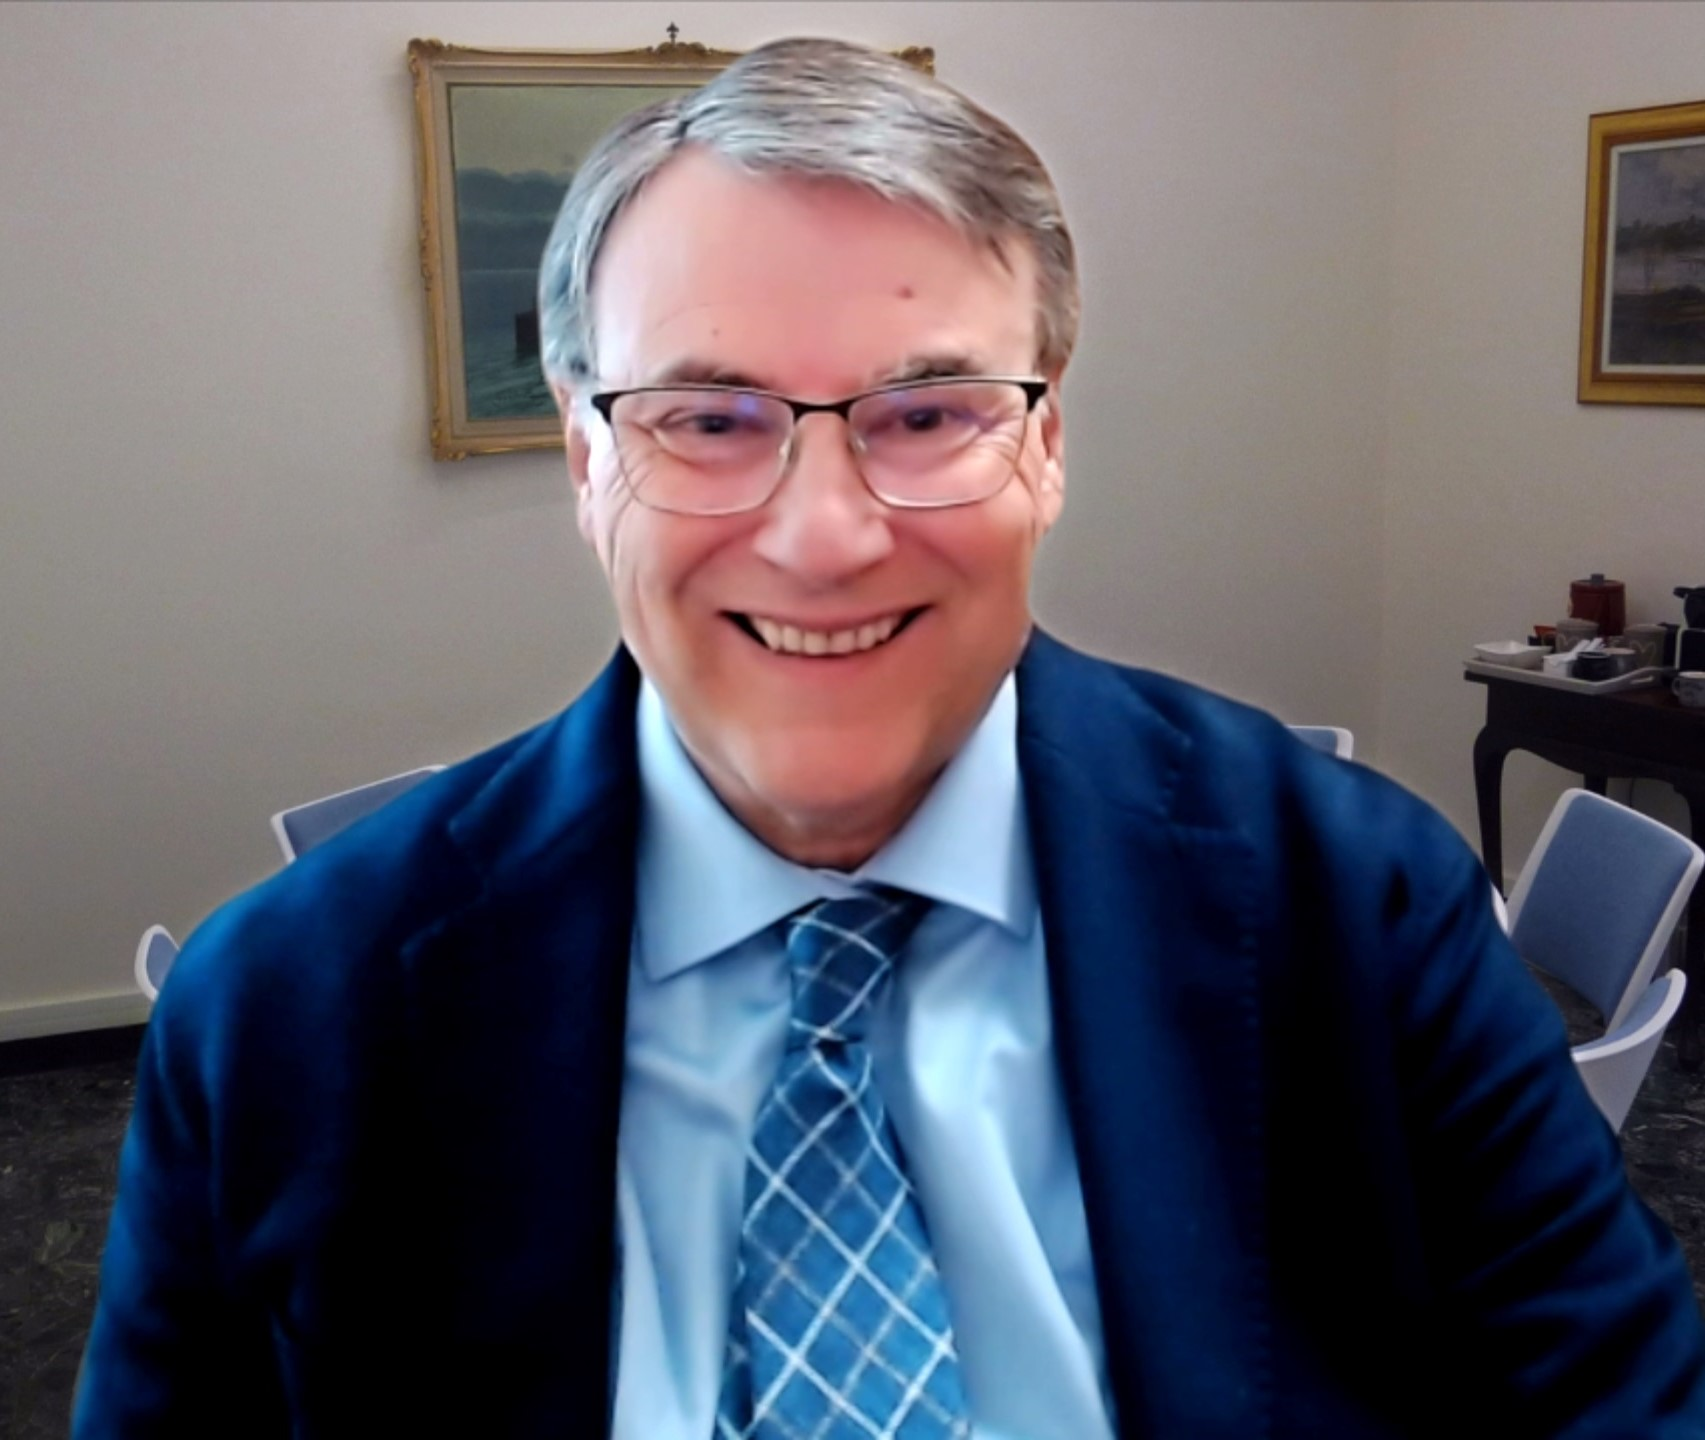
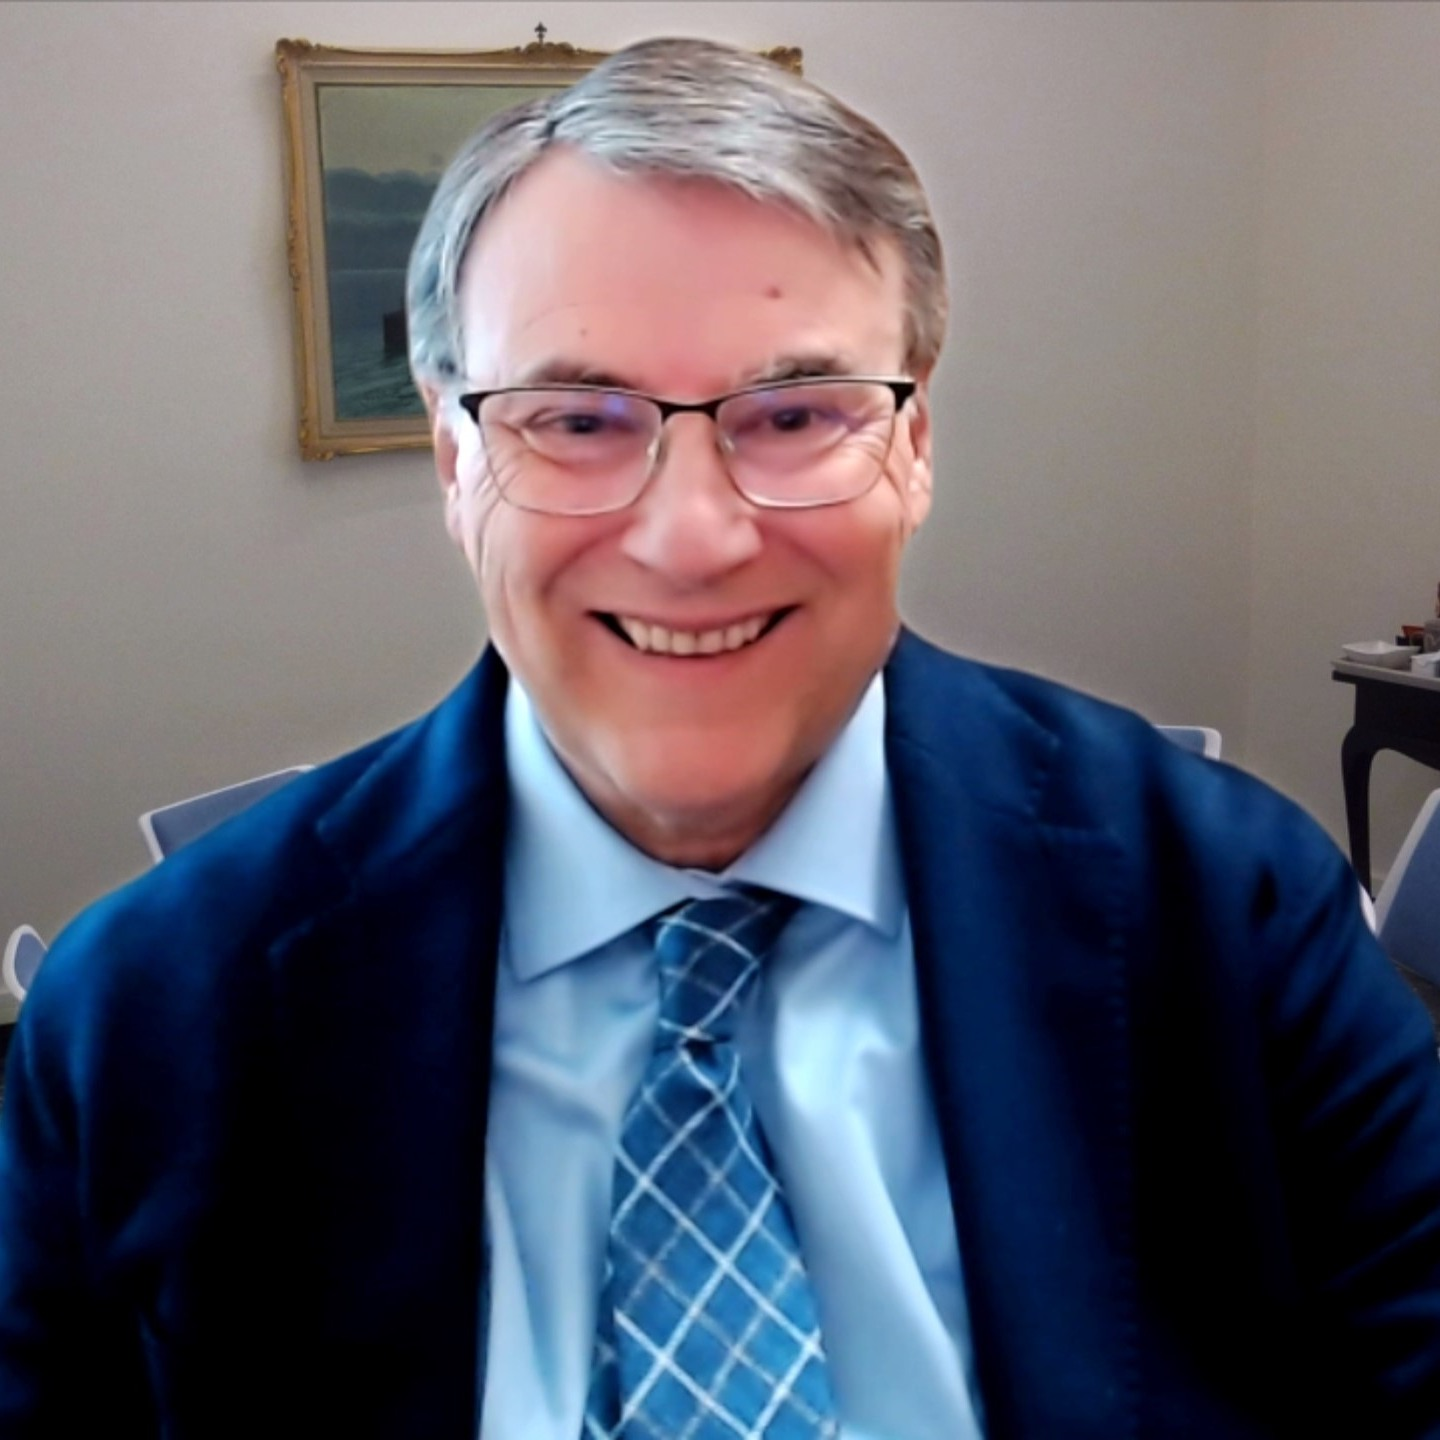
Add files via upload

diff --git a/index.html b/index.html
@@ -8,8 +8,8 @@
 <meta name="google-site-verification" content="b2392e1f3564a1be">
 
 <!-- ══ SEO PRIMARIO ══ -->
-<title>Olismo Integrato — Chakra, Enneagramma, Fiori di Bach, AT | Carlo Alberto Calcagno</title>
-<meta name="description" content="Portale olistico di Carlo Alberto Calcagno: database di chakra, cristalli, enneatipi, Fiori di Bach, FES californiani, Bush australiani, frequenze sonore, Analisi Transazionale e consulente AI per il benessere integrato.">
+<title>Olismo Integrato — Chakra, Enneagramma, AT, Cristalli, Meditazione | Carlo Alberto Calcagno</title>
+<meta name="description" content="Portale olistico di Carlo Alberto Calcagno: database di chakra, cristalli, enneatipi, Fiori di Bach, FES californiani, Bush australiani, frequenze sonore, Analisi Transazionale e consulente AI per il benessere integrato, comunicazione transazionale e meditazione olistica.">
 <meta name="keywords" content="enneagramma evolutivo, chakra, fiori di bach, analisi transazionale, VAK, mediazione familiare, pranoterapia, cristalli, frequenze solfeggio, FES californiani, Bush australiani, Carlo Alberto Calcagno, olismo integrato, counseling olistico">
 <meta name="author" content="Carlo Alberto Calcagno">
 <meta name="robots" content="index, follow, max-image-preview:large">
@@ -1774,7 +1774,7 @@ footer.site-footer{
 @media(max-width:760px){.chisono-grid{grid-template-columns:1fr}}
 .chisono-card{background:white;border-radius:var(--rxl);border:1.5px solid var(--border);overflow:hidden;position:sticky;top:88px}
 .chisono-avatar{width:100%;aspect-ratio:1;background:linear-gradient(135deg,var(--ivory2),var(--ivory3));display:flex;align-items:center;justify-content:center;font-size:5rem;overflow:hidden}
-.chisono-avatar img{width:100%;height:100%;object-fit:cover;object-position:center 20%;border-radius:50%}
+.chisono-avatar img{width:100%;height:100%;object-fit:cover;object-position:center center;border-radius:50%}
 .chisono-card-body{padding:1.5rem}
 .chisono-name{font-family:'Cormorant Garamond',serif;font-size:1.5rem;font-weight:400;color:var(--ink);margin-bottom:.2rem}
 .chisono-role{font-size:.78rem;color:var(--gold);font-weight:600;letter-spacing:.08em;text-transform:uppercase;margin-bottom:1rem}
@@ -2629,6 +2629,19 @@ body.dark .dark-toggle{background:#3a3632}
   font-size:.78rem;color:var(--ink3);cursor:pointer;
 }
 
+
+/* Footer external sites row */
+.f-ext-sites{
+  display:flex;flex-wrap:wrap;justify-content:center;gap:.4rem 1.2rem;
+  padding:.6rem 1rem;border-bottom:1px solid rgba(255,255,255,.08);
+  margin-bottom:.5rem;
+}
+.f-ext-link{
+  font-size:.7rem;color:rgba(255,255,255,.55);text-decoration:none;
+  transition:color .2s;
+}
+.f-ext-link:hover{color:var(--gold)}
+
 </style>
 
 
@@ -2671,7 +2684,7 @@ body.dark .dark-toggle{background:#3a3632}
     <span class="nav-sep">·</span>
     <!-- FASE 2: APPROFONDISCI -->
     <button class="nav-link" onclick="st('enneagram')">Enneatipi</button>
-    <button class="nav-link" onclick="st('at-adattamenti')">AT</button>
+    <button class="nav-link" onclick="st('at-adattamenti')">ADATT.</button>
   <button class="nav-link" onclick="st('transazioni')">TRANSAZ.</button>
     <button class="nav-link" onclick="st('egogramma')">Ego</button>
     <button class="nav-link" onclick="st('compatibilita')">Coppia</button>
@@ -2682,7 +2695,8 @@ body.dark .dark-toggle{background:#3a3632}
     <button class="nav-link" onclick="st('bach')">Bach</button>
     <button class="nav-link" onclick="st('fes-sec')">✿ FES</button>
     <button class="nav-link" onclick="st('bush-sec')">❋ Bush</button>
-    <button class="nav-link" onclick="window.open('https://frequenze-evolutive.it','_blank')" style="color:var(--ink3)">🎵 Suno ↗</button>
+    <button class="nav-link" onclick="st('meditazione')">🧘 Medit.</button>
+  <button class="nav-link" onclick="window.open('https://frequenze-evolutive.it','_blank')" style="color:var(--ink3)">🎵 Suno ↗</button>
     <span class="nav-sep">·</span>
     <!-- FASE 4: ESPLORA + AI -->
     <button class="nav-link" onclick="st('explorer')">Database</button>
@@ -4489,6 +4503,8 @@ body.dark .dark-toggle{background:#3a3632}
       <button class="f-link" onclick="st('musica')">♬ Musicoterapia</button>
       <button class="f-link" onclick="st('alimentazione')">🌿 Alimentazione olistica</button>
       <button class="f-link" onclick="st('prano')">🤲 Pranoterapia</button>
+        <button class="f-link" onclick="st('meditazione')">🧘 Meditazione</button>
+        <button class="f-link" onclick="window.open('https://frequenze-evolutive.it','_blank')" style="color:var(--gold)">🎵 Generatore Suno ↗</button>
     <button class="nav-link" onclick="st('meditazione')">🧘 Meditazione</button>
       <button class="f-link" onclick="st('suno-generator')">🎵 Generatore Suno</button>
     </div>
@@ -4510,7 +4526,8 @@ body.dark .dark-toggle{background:#3a3632}
     <!-- INFO & LEGALE -->
     <div>
       <div class="f-col-title">Info & Legale</div>
-      <button class="f-link" onclick="st('faq')">FAQ</button>
+      <button class="f-link" onclick="st('percorso-viaggio')">🗺 Mappa del percorso</button>
+        <button class="f-link" onclick="st('faq')">FAQ</button>
       <button class="f-link" onclick="st('guida')">Guida all'uso</button>
       <button class="f-link" onclick="st('link-utili')">Link utili</button>
       <button class="f-link" onclick="openPrivacy()">🔒 Privacy Policy</button>
@@ -4519,18 +4536,14 @@ body.dark .dark-toggle{background:#3a3632}
       <a class="f-link" href="https://olismo-integrato.it/robots.txt" target="_blank">robots.txt</a>
       <a class="f-link" href="https://frequenze-evolutive.it" target="_blank" rel="noopener">Frequenze Evolutive ↗</a>
       <a class="f-link" href="https://mediaresenzaconfini.org" target="_blank" rel="noopener">Mediare Senza Confini ↗</a>
-        <a class="f-bar-link" href="https://percorsidicrescitalucca.it" target="_blank" rel="noopener">Percorsi Crescita ↗</a>
-        <a class="f-bar-link" href="https://ladanzadelconflitto.it" target="_blank" rel="noopener">Danza del Conflitto ↗</a>
-        <a class="f-bar-link" href="https://tieniinmanolaluce.me" target="_blank" rel="noopener">Tieni in Mano la Luce ↗</a>
-        <a class="f-site-link" href="https://percorsidicrescitalucca.it" target="_blank">Percorsi di Crescita ↗</a>
-        <a class="f-site-link" href="https://ladanzadelconflitto.it" target="_blank">La Danza del Conflitto ↗</a>
-        <a class="f-site-link" href="https://tieniinmanolaluce.me" target="_blank">Tieni in Mano la Luce ↗</a>
+        
     </div>
 
   </div>
 
   <!-- Footer bar -->
   <div class="footer-bar">
+    <div class="f-ext-sites"><a class="f-ext-link" href="https://frequenze-evolutive.it" target="_blank" rel="noopener">🎵 frequenze-evolutive.it ↗</a><a class="f-ext-link" href="https://guarigionequantica.eu" target="_blank" rel="noopener">✨ guarigionequantica.eu ↗</a><a class="f-ext-link" href="https://mediaresenzaconfini.org" target="_blank" rel="noopener">⚖ mediaresenzaconfini.org ↗</a><a class="f-ext-link" href="https://percorsidicrescitalucca.it" target="_blank" rel="noopener">🌱 percorsidicrescitalucca.it ↗</a><a class="f-ext-link" href="https://ladanzadelconflitto.it" target="_blank" rel="noopener">⚡ ladanzadelconflitto.it ↗</a><a class="f-ext-link" href="https://tieniinmanolaluce.me" target="_blank" rel="noopener">✦ tieniinmanolaluce.me ↗</a></div>
     <span class="f-copy">© 2026 Carlo Alberto Calcagno — Olismo Integrato</span>
     <div class="f-bar-links">
       <button class="f-bar-link" onclick="openPrivacy()">Privacy Policy</button>
